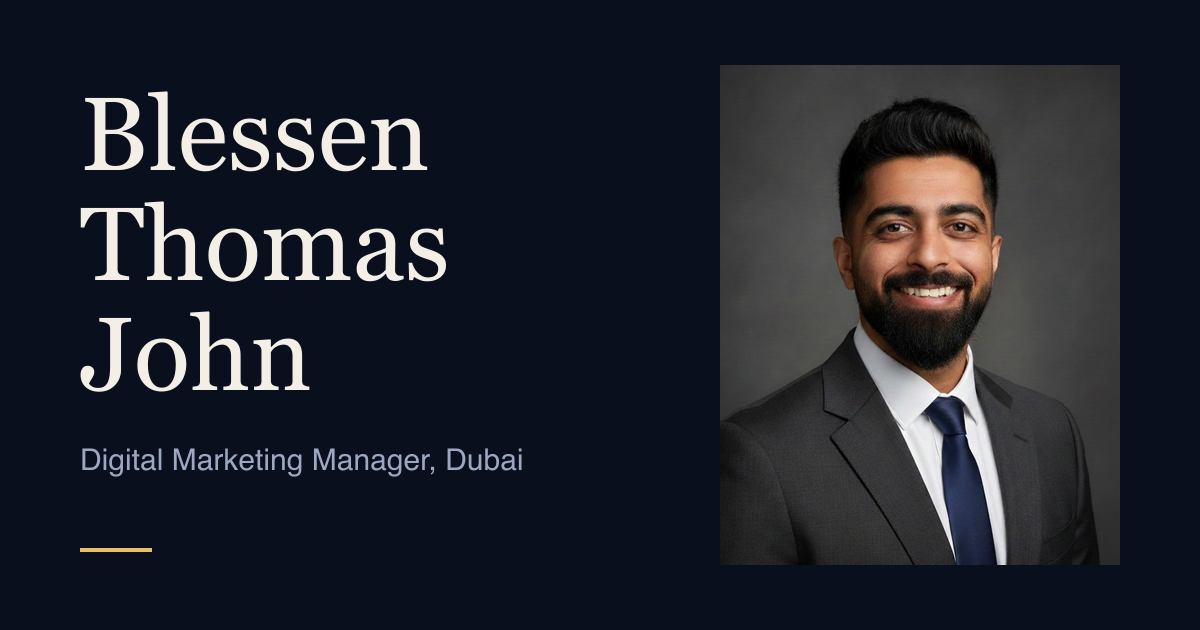
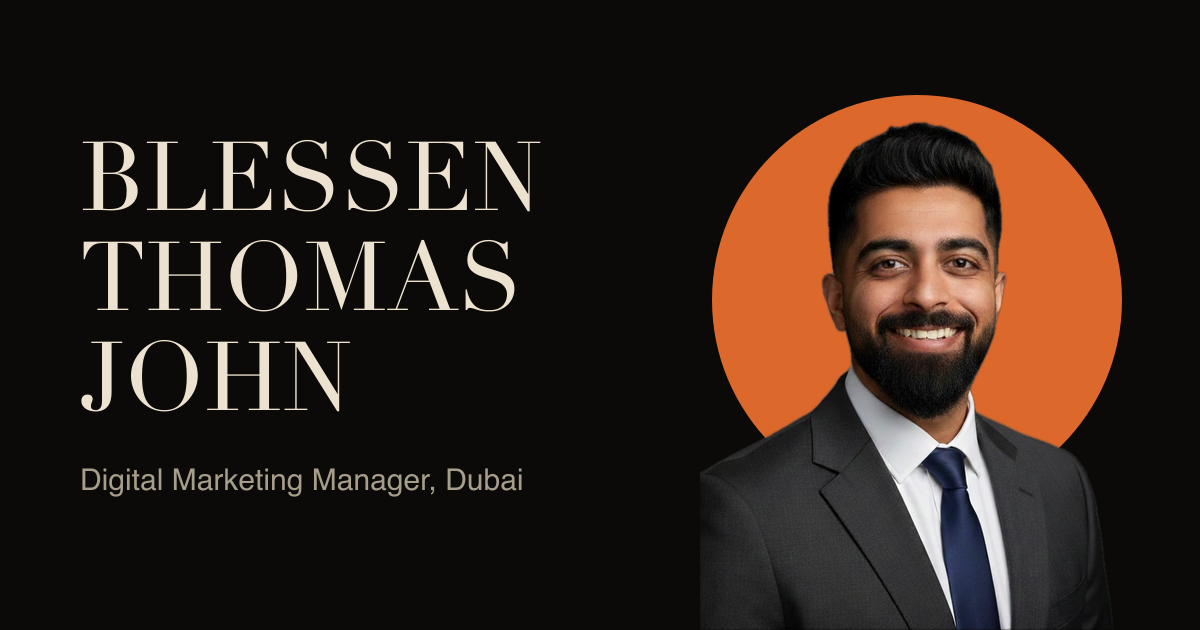
Black, beige and burnt orange palette; cut-out portrait with sun; Magento, Zapier and Claude Code tiles

diff --git a/index.html b/index.html
@@ -5,7 +5,7 @@
   <meta name="viewport" content="width=device-width, initial-scale=1">
   <title>Blessen Thomas John | Digital Marketing Manager, Dubai</title>
   <meta name="description" content="Blessen Thomas John is a Digital Marketing Manager and Adobe Experience Cloud specialist in Dubai, leading MarTech delivery across AEM, Workfront, Workfront Fusion and Marketo Engage.">
-  <meta name="theme-color" content="#0a0f1e">
+  <meta name="theme-color" content="#0b0a08">
   <link rel="canonical" href="%VITE_SITE_URL%">
   <meta property="og:type" content="website">
   <meta property="og:title" content="Blessen Thomas John | Digital Marketing Manager, Dubai">
@@ -76,10 +76,11 @@
     <div class="hero__stage">
       <div class="hero__photo">
         <div class="portrait">
+          <span class="portrait__sun" aria-hidden="true"></span>
           <img src="/portrait-840.webp"
             srcset="/portrait-420.webp 420w, /portrait-840.webp 840w"
             sizes="(min-width: 700px) 27vw, 54vw"
-            width="840" height="1050" fetchpriority="high" decoding="async"
+            width="840" height="1083" fetchpriority="high" decoding="async"
             alt="Portrait of Blessen Thomas John, smiling, in a dark suit and navy tie">
         </div>
       </div>
@@ -104,6 +105,7 @@
         <li><svg viewBox="0 0 24 24" aria-hidden="true"><path d="M13.966 22.624l-1.69-4.281H8.122l3.892-9.144 5.662 13.425zM8.884 1.376H0v21.248zm15.116 0h-8.884L24 22.624Z"/></svg><span>Workfront</span></li>
         <li><svg viewBox="0 0 24 24" aria-hidden="true"><path d="M13.966 22.624l-1.69-4.281H8.122l3.892-9.144 5.662 13.425zM8.884 1.376H0v21.248zm15.116 0h-8.884L24 22.624Z"/></svg><span>Workfront Fusion</span></li>
         <li><svg viewBox="0 0 24 24" aria-hidden="true"><path d="M16.146 0v24l6.134-4.886V3.334zM13.293 18.758l-4.939 2.157V2.086l4.939 1.462zM1.721 18.205l3.78-.999V5.188l-3.762-.606z"/></svg><span>Marketo Engage</span></li>
+        <li><svg viewBox="0 0 24 24" aria-hidden="true"><path d="M12 24l-4.455-2.572v-12l2.97-1.715v12.001l1.485.902 1.485-.902V7.713l2.971 1.715v12L12 24zM22.391 6v12l-2.969 1.714V7.713L12 3.43 4.574 7.713v12.001L1.609 18V6L12 0l10.391 6z"/></svg><span>Magento</span></li>
         <li><svg viewBox="0 0 24 24" aria-hidden="true"><path d="M22.84 2.9982v17.9987c.0086 1.6473-1.3197 2.9897-2.967 2.9984a2.9808 2.9808 0 01-.3677-.0208c-1.528-.226-2.6477-1.5558-2.6105-3.1V3.1204c-.0369-1.5458 1.0856-2.8762 2.6157-3.1 1.6361-.1915 3.1178.9796 3.3093 2.6158.014.1201.0208.241.0202.3619zM4.1326 18.0548c-1.6417 0-2.9726 1.331-2.9726 2.9726C1.16 22.6691 2.4909 24 4.1326 24s2.9726-1.3309 2.9726-2.9726-1.331-2.9726-2.9726-2.9726zm7.8728-9.0098c-.0171 0-.0342 0-.0513.0003-1.6495.0904-2.9293 1.474-2.891 3.1256v7.9846c0 2.167.9535 3.4825 2.3505 3.763 1.6118.3266 3.1832-.7152 3.5098-2.327.04-.1974.06-.3983.0593-.5998v-8.9585c.003-1.6474-1.33-2.9852-2.9773-2.9882z"/></svg><span>Google Analytics 4</span></li>
         <li><svg viewBox="0 0 24 24" aria-hidden="true"><path d="M12.003 0a3 3 0 0 0-2.121 5.121l6.865 6.865-4.446 4.541 1.745 1.836a3.432 3.432 0 0 1 .7.739l.012.011-.001.002a3.432 3.432 0 0 1 .609 1.953 3.432 3.432 0 0 1-.09.78l7.75-7.647c.031-.029.067-.05.098-.08.023-.023.038-.052.06-.076a2.994 2.994 0 0 0-.06-4.166l-9-9A2.99 2.99 0 0 0 12.003 0zM8.63 2.133L.88 9.809a2.998 2.998 0 0 0 0 4.238l7.7 7.75a3.432 3.432 0 0 1-.077-.729 3.432 3.432 0 0 1 3.431-3.431 3.432 3.432 0 0 1 .826.101l-5.523-5.81 4.371-4.373-2.08-2.08c-.903-.904-1.193-2.183-.898-3.342zm3.304 16.004a2.932 2.932 0 0 0-2.931 2.931A2.932 2.932 0 0 0 11.934 24a2.932 2.932 0 0 0 2.932-2.932 2.932 2.932 0 0 0-2.932-2.931z"/></svg><span>Google Tag Manager</span></li>
         <li><svg viewBox="0 0 24 24" aria-hidden="true"><path d="M19.197 23.002c-1.016-.613-1.697-1.728-1.697-3 0-1.273.681-2.388 1.697-3h-6.909a3.034 3.034 0 0 0-.252-.011c-1.656 0-3.022 1.355-3.036 3.011v.014c0 1.645 1.354 3 3 3 .096 0 .192-.005.288-.014h6.909Zm1.803-6c1.656 0 3 1.344 3 3s-1.344 3-3 3-3-1.344-3-3 1.344-3 3-3Zm-10.803-2.004c-1.016-.613-1.697-1.728-1.697-3 0-1.273.681-2.388 1.697-3H3.288a3.034 3.034 0 0 0-.252-.011C1.38 8.987.014 10.342 0 11.998v.014c0 1.645 1.354 3 3 3 .096 0 .192-.005.288-.014h6.909Zm1.803-6c1.656 0 3 1.344 3 3s-1.344 3-3 3-3-1.344-3-3 1.344-3 3-3Zm7.197-2.004c-1.016-.613-1.697-1.728-1.697-3 0-1.273.681-2.388 1.697-3h-6.909c-.08-.006-.16-.01-.24-.01C10.39.984 9.021 2.336 9 3.994v.014c0 1.645 1.354 3 3 3 .096 0 .192-.005.288-.014h6.909Zm1.803-6c1.656 0 3 1.344 3 3s-1.344 3-3 3-3-1.344-3-3 1.344-3 3-3Z"/></svg><span>Looker Studio</span></li>
@@ -111,8 +113,9 @@
         <li><svg viewBox="0 0 24 24" aria-hidden="true"><path d="M11.571 11.513H0a5.218 5.218 0 0 0 5.232 5.215h2.13v2.057A5.215 5.215 0 0 0 12.575 24V12.518a1.005 1.005 0 0 0-1.005-1.005zm5.723-5.756H5.736a5.215 5.215 0 0 0 5.215 5.214h2.129v2.058a5.218 5.218 0 0 0 5.215 5.214V6.758a1.001 1.001 0 0 0-1.001-1.001zM23.013 0H11.455a5.215 5.215 0 0 0 5.215 5.215h2.129v2.057A5.215 5.215 0 0 0 24 12.483V1.005A1.001 1.001 0 0 0 23.013 0Z"/></svg><span>Jira</span></li>
         <li><svg viewBox="0 0 24 24" aria-hidden="true"><path d="M18.164 7.93V5.084a2.198 2.198 0 001.267-1.978v-.067A2.2 2.2 0 0017.238.845h-.067a2.2 2.2 0 00-2.193 2.193v.067a2.196 2.196 0 001.252 1.973l.013.006v2.852a6.22 6.22 0 00-2.969 1.31l.012-.01-7.828-6.095A2.497 2.497 0 104.3 4.656l-.012.006 7.697 5.991a6.176 6.176 0 00-1.038 3.446c0 1.343.425 2.588 1.147 3.607l-.013-.02-2.342 2.343a1.968 1.968 0 00-.58-.095h-.002a2.033 2.033 0 102.033 2.033 1.978 1.978 0 00-.1-.595l.005.014 2.317-2.317a6.247 6.247 0 104.782-11.134l-.036-.005zm-.964 9.378a3.206 3.206 0 113.215-3.207v.002a3.206 3.206 0 01-3.207 3.207z"/></svg><span>HubSpot</span></li>
         <li><svg viewBox="0 0 24 24" aria-hidden="true"><path d="M13.38 3.498c-.27 0-.511.19-.566.465L9.85 18.986a.578.578 0 0 0 .453.678l4.095.826a.58.58 0 0 0 .682-.455l2.963-15.021a.578.578 0 0 0-.453-.678l-4.096-.826a.589.589 0 0 0-.113-.012zm-5.876.098a.576.576 0 0 0-.516.318L.062 17.697a.575.575 0 0 0 .256.774l3.733 1.877a.578.578 0 0 0 .775-.258l6.926-13.781a.577.577 0 0 0-.256-.776L7.762 3.658a.571.571 0 0 0-.258-.062zm11.74.115a.576.576 0 0 0-.576.576v15.426c0 .318.258.578.576.578h4.178a.58.58 0 0 0 .578-.578V4.287a.578.578 0 0 0-.578-.576Z"/></svg><span>Make</span></li>
+        <li><svg viewBox="0 0 24 24" aria-hidden="true"><path d="M4.157 0A4.151 4.151 0 0 0 0 4.161v15.678A4.151 4.151 0 0 0 4.157 24h15.682A4.152 4.152 0 0 0 24 19.839V4.161A4.152 4.152 0 0 0 19.839 0H4.157Zm10.61 8.761h.03a.577.577 0 0 1 .23.038.585.585 0 0 1 .201.124.63.63 0 0 1 .162.431.612.612 0 0 1-.162.435.58.58 0 0 1-.201.128.58.58 0 0 1-.23.042.529.529 0 0 1-.235-.042.585.585 0 0 1-.332-.328.559.559 0 0 1-.038-.235.613.613 0 0 1 .17-.431.59.59 0 0 1 .405-.162Zm2.853 1.572c.03.004.061.004.095.004.325-.011.646.064.937.219.238.144.431.355.552.609.128.279.189.582.185.888v.193a2 2 0 0 1 0 .219h-2.498c.003.227.075.45.204.642a.78.78 0 0 0 .646.265.714.714 0 0 0 .484-.136.642.642 0 0 0 .23-.318l.915.257a1.398 1.398 0 0 1-.28.537c-.14.159-.321.284-.521.355a2.234 2.234 0 0 1-.836.136 1.923 1.923 0 0 1-1.001-.245 1.618 1.618 0 0 1-.665-.703 2.221 2.221 0 0 1-.227-1.036 1.95 1.95 0 0 1 .48-1.398 1.9 1.9 0 0 1 1.3-.488Zm-9.607.023c.162.004.325.026.48.079.207.065.4.174.563.314.26.302.393.692.366 1.088v2.276H8.53l-.109-.711h-.065c-.064.163-.155.31-.272.439a1.122 1.122 0 0 1-.374.264 1.023 1.023 0 0 1-.453.083 1.334 1.334 0 0 1-.866-.264.965.965 0 0 1-.329-.801.993.993 0 0 1 .076-.431 1.02 1.02 0 0 1 .242-.363 1.478 1.478 0 0 1 1.043-.303h.952v-.181a.696.696 0 0 0-.136-.454.553.553 0 0 0-.438-.154.695.695 0 0 0-.378.086.48.48 0 0 0-.193.254l-.99-.144a1.26 1.26 0 0 1 .257-.563c.14-.174.321-.302.533-.378.261-.091.54-.136.82-.129.053-.003.106-.007.163-.007Zm4.384.007c.174 0 .347.038.506.114.182.083.34.211.458.374.257.423.377.911.351 1.406a2.53 2.53 0 0 1-.355 1.448 1.148 1.148 0 0 1-1.009.517c-.204 0-.401-.045-.582-.136a1.052 1.052 0 0 1-.48-.457 1.298 1.298 0 0 1-.114-.234h-.045l.004 1.784h-1.059v-4.713h.904l.117.805h.057c.068-.208.177-.401.328-.56a1.129 1.129 0 0 1 .843-.344h.076v-.004Zm7.559.084h.903l.113.805h.053a1.37 1.37 0 0 1 .235-.484.813.813 0 0 1 .313-.242.82.82 0 0 1 .39-.076h.234v1.051h-.401a.662.662 0 0 0-.313.008.623.623 0 0 0-.272.155.663.663 0 0 0-.174.26.683.683 0 0 0-.027.314v1.875h-1.054v-3.666Zm-17.515.003h3.262v.896L3.73 13.104l.034.113h1.973l.042.9H2.4v-.9l1.931-1.754-.045-.117H2.441v-.896Zm11.815 0h1.055v3.659h-1.055V10.45Zm3.443.684.019.016a.69.69 0 0 0-.351.045.756.756 0 0 0-.287.204c-.11.155-.174.336-.189.522h1.545c-.034-.526-.257-.787-.74-.787h.003Zm-5.718.163c-.026 0-.057 0-.083.004a.78.78 0 0 0-.31.053.746.746 0 0 0-.257.189 1.016 1.016 0 0 0-.204.695v.064c-.015.257.057.507.204.711a.634.634 0 0 0 .253.196.638.638 0 0 0 .314.061.644.644 0 0 0 .578-.265c.14-.223.204-.48.189-.74a1.216 1.216 0 0 0-.181-.711.677.677 0 0 0-.503-.257Zm-4.509 1.266a.464.464 0 0 0-.268.102.373.373 0 0 0-.114.276c0 .053.008.106.027.155a.375.375 0 0 0 .087.132.576.576 0 0 0 .397.11v.004a.863.863 0 0 0 .563-.182.573.573 0 0 0 .211-.457v-.14h-.903Z"/></svg><span>Zapier</span></li>
         <li><svg viewBox="0 0 24 24" aria-hidden="true"><path d="m0 7.354 2.113 9.292h.801a1.54 1.54 0 0 0 1.506-1.218l1.351-6.34a.171.171 0 0 1 .167-.137c.08 0 .15.058.167.137l1.352 6.34a1.54 1.54 0 0 0 1.506 1.218h.805l2.113-9.292h-.565c-.62 0-1.159.43-1.296 1.035l-1.26 5.545-1.106-5.176a1.76 1.76 0 0 0-2.19-1.324c-.639.176-1.113.716-1.251 1.365l-1.094 5.127-1.26-5.537A1.33 1.33 0 0 0 .563 7.354H0zm13.992 0a.951.951 0 0 0-.951.95v8.342h.635a.952.952 0 0 0 .951-.95V7.353h-.635zm1.778 0 3.158 4.66-3.14 4.632h1.325c.368 0 .712-.181.918-.486l1.756-2.59a.12.12 0 0 1 .197 0l1.754 2.59c.206.305.55.486.918.486h1.326l-3.14-4.632L24 7.354h-1.326c-.368 0-.712.181-.918.486l-1.772 2.617a.12.12 0 0 1-.197 0L18.014 7.84a1.108 1.108 0 0 0-.918-.486H15.77z"/></svg><span>Wix</span></li>
-        <li><svg viewBox="0 0 24 24" aria-hidden="true"><path d="m4.7144 15.9555 4.7174-2.6471.079-.2307-.079-.1275h-.2307l-.7893-.0486-2.6956-.0729-2.3375-.0971-2.2646-.1214-.5707-.1215-.5343-.7042.0546-.3522.4797-.3218.686.0608 1.5179.1032 2.2767.1578 1.6514.0972 2.4468.255h.3886l.0546-.1579-.1336-.0971-.1032-.0972L6.973 9.8356l-2.55-1.6879-1.3356-.9714-.7225-.4918-.3643-.4614-.1578-1.0078.6557-.7225.8803.0607.2246.0607.8925.686 1.9064 1.4754 2.4893 1.8336.3643.3035.1457-.1032.0182-.0728-.164-.2733-1.3539-2.4467-1.445-2.4893-.6435-1.032-.17-.6194c-.0607-.255-.1032-.4674-.1032-.7285L6.287.1335 6.6997 0l.9957.1336.419.3642.6192 1.4147 1.0018 2.2282 1.5543 3.0296.4553.8985.2429.8318.091.255h.1579v-.1457l.1275-1.706.2368-2.0947.2307-2.6957.0789-.7589.3764-.9107.7468-.4918.5828.2793.4797.686-.0668.4433-.2853 1.8517-.5586 2.9021-.3643 1.9429h.2125l.2429-.2429.9835-1.3053 1.6514-2.0643.7286-.8196.85-.9046.5464-.4311h1.0321l.759 1.1293-.34 1.1657-1.0625 1.3478-.8804 1.1414-1.2628 1.7-.7893 1.36.0729.1093.1882-.0183 2.8535-.607 1.5421-.2794 1.8396-.3157.8318.3886.091.3946-.3278.8075-1.967.4857-2.3072.4614-3.4364.8136-.0425.0304.0486.0607 1.5482.1457.6618.0364h1.621l3.0175.2247.7892.522.4736.6376-.079.4857-1.2142.6193-1.6393-.3886-3.825-.9107-1.3113-.3279h-.1822v.1093l1.0929 1.0686 2.0035 1.8092 2.5075 2.3314.1275.5768-.3218.4554-.34-.0486-2.2039-1.6575-.85-.7468-1.9246-1.621h-.1275v.17l.4432.6496 2.3436 3.5214.1214 1.0807-.17.3521-.6071.2125-.6679-.1214-1.3721-1.9246L14.38 17.959l-1.1414-1.9428-.1397.079-.674 7.2552-.3156.3703-.7286.2793-.6071-.4614-.3218-.7468.3218-1.4753.3886-1.9246.3157-1.53.2853-1.9004.17-.6314-.0121-.0425-.1397.0182-1.4328 1.9672-2.1796 2.9446-1.7243 1.8456-.4128.164-.7164-.3704.0667-.6618.4008-.5889 2.386-3.0357 1.4389-1.882.929-1.0868-.0062-.1579h-.0546l-6.3385 4.1164-1.1293.1457-.4857-.4554.0608-.7467.2307-.2429 1.9064-1.3114Z"/></svg><span>Claude</span></li>
+        <li><svg viewBox="0 0 24 24" aria-hidden="true"><path d="m4.7144 15.9555 4.7174-2.6471.079-.2307-.079-.1275h-.2307l-.7893-.0486-2.6956-.0729-2.3375-.0971-2.2646-.1214-.5707-.1215-.5343-.7042.0546-.3522.4797-.3218.686.0608 1.5179.1032 2.2767.1578 1.6514.0972 2.4468.255h.3886l.0546-.1579-.1336-.0971-.1032-.0972L6.973 9.8356l-2.55-1.6879-1.3356-.9714-.7225-.4918-.3643-.4614-.1578-1.0078.6557-.7225.8803.0607.2246.0607.8925.686 1.9064 1.4754 2.4893 1.8336.3643.3035.1457-.1032.0182-.0728-.164-.2733-1.3539-2.4467-1.445-2.4893-.6435-1.032-.17-.6194c-.0607-.255-.1032-.4674-.1032-.7285L6.287.1335 6.6997 0l.9957.1336.419.3642.6192 1.4147 1.0018 2.2282 1.5543 3.0296.4553.8985.2429.8318.091.255h.1579v-.1457l.1275-1.706.2368-2.0947.2307-2.6957.0789-.7589.3764-.9107.7468-.4918.5828.2793.4797.686-.0668.4433-.2853 1.8517-.5586 2.9021-.3643 1.9429h.2125l.2429-.2429.9835-1.3053 1.6514-2.0643.7286-.8196.85-.9046.5464-.4311h1.0321l.759 1.1293-.34 1.1657-1.0625 1.3478-.8804 1.1414-1.2628 1.7-.7893 1.36.0729.1093.1882-.0183 2.8535-.607 1.5421-.2794 1.8396-.3157.8318.3886.091.3946-.3278.8075-1.967.4857-2.3072.4614-3.4364.8136-.0425.0304.0486.0607 1.5482.1457.6618.0364h1.621l3.0175.2247.7892.522.4736.6376-.079.4857-1.2142.6193-1.6393-.3886-3.825-.9107-1.3113-.3279h-.1822v.1093l1.0929 1.0686 2.0035 1.8092 2.5075 2.3314.1275.5768-.3218.4554-.34-.0486-2.2039-1.6575-.85-.7468-1.9246-1.621h-.1275v.17l.4432.6496 2.3436 3.5214.1214 1.0807-.17.3521-.6071.2125-.6679-.1214-1.3721-1.9246L14.38 17.959l-1.1414-1.9428-.1397.079-.674 7.2552-.3156.3703-.7286.2793-.6071-.4614-.3218-.7468.3218-1.4753.3886-1.9246.3157-1.53.2853-1.9004.17-.6314-.0121-.0425-.1397.0182-1.4328 1.9672-2.1796 2.9446-1.7243 1.8456-.4128.164-.7164-.3704.0667-.6618.4008-.5889 2.386-3.0357 1.4389-1.882.929-1.0868-.0062-.1579h-.0546l-6.3385 4.1164-1.1293.1457-.4857-.4554.0608-.7467.2307-.2429 1.9064-1.3114Z"/></svg><span>Claude Code</span></li>
         <li><svg viewBox="0 0 24 24" aria-hidden="true"><path d="M20.907 4.93953 12.68543.18573a1.3577 1.3577 0 0 0-1.3709 0L3.09298 4.9565a1.3766 1.3766 0 0 0-.68639 1.18233v9.52646a1.3766 1.3766 0 0 0 .68639 1.19363l8.22157 4.75946.06223.03583 4.04856 2.3458-.01131-2.06106.0075-1.1446.0038.01885v-.38467c0-.23006.1188-.43371.29605-.56005l.264-.15086.12633-.06977h-.0075l4.80283-2.7795a1.3803 1.3803 0 0 0 .68639-1.19551V6.13505a1.3803 1.3803 0 0 0-.68642-1.19552m-9.85269 9.68863a1.4275 1.4275 0 0 1-.39976 1.3841 1.4086 1.4086 0 0 1-1.97054 0 1.4199 1.4199 0 0 1 0-2.06294 1.4086 1.4086 0 0 1 2.0422.07543l3.32822-1.91585.6864.38656zm5.77019-2.41367a1.4086 1.4086 0 0 1-1.97054 0 1.4256 1.4256 0 0 1-.3696-1.47837l-.0132.0075-3.7525-2.1723-.05657.05656a1.4086 1.4086 0 0 1-1.97053 0 1.4199 1.4199 0 0 1 0-2.06293 1.4086 1.4086 0 0 1 1.97242 0c.3941.37713.52422.91832.39033 1.40672l3.7808 2.20059.01886-.01886a1.4086 1.4086 0 0 1 1.97242 0 1.42746 1.42746 0 0 1 0 2.06105z"/></svg><span>DeepL</span></li>
       </ul>
     </section>
@@ -155,6 +158,7 @@
           <div class="proj__body">
             <p class="proj__case">Enterprise teams need to publish product content and sell online without a developer behind every change.</p>
             <p>Delivered a CMS migration and a custom-built CMS that the client’s teams manage themselves, together with a webshop for the product range.</p>
+            <p class="proj__tools">Magento</p>
           </div>
         </details>
         <details class="proj" name="work">
@@ -296,7 +300,7 @@
       <div class="skills">
         <div>
           <h3>Adobe and MarTech</h3>
-          <ul><li>AEM Sites (Cloud)</li><li>AEM Assets and DAM</li><li>Workfront</li><li>Workfront Fusion</li><li>Marketo Engage</li><li>HubSpot</li><li>Jira</li><li>Wix</li></ul>
+          <ul><li>AEM Sites (Cloud)</li><li>AEM Assets and DAM</li><li>Workfront</li><li>Workfront Fusion</li><li>Marketo Engage</li><li>Magento</li><li>HubSpot</li><li>Jira</li><li>Wix</li></ul>
         </div>
         <div>
           <h3>Project delivery</h3>
@@ -308,7 +312,7 @@
         </div>
         <div>
           <h3>Data and AI</h3>
-          <ul><li>GA4 and GTM</li><li>Looker Studio</li><li>BigQuery</li><li>Fivetran</li><li>Claude and Claude Code</li><li>GPT</li><li>Make</li><li>Prompt engineering</li></ul>
+          <ul><li>GA4 and GTM</li><li>Looker Studio</li><li>BigQuery</li><li>Fivetran</li><li>Claude and Claude Code</li><li>GPT</li><li>Make</li><li>Zapier</li><li>Prompt engineering</li></ul>
         </div>
       </div>
       <div class="creds">

diff --git a/src/style.css b/src/style.css
@@ -1,17 +1,15 @@
 @import '@fontsource-variable/bodoni-moda/opsz.css';
 @import '@fontsource-variable/hanken-grotesk/wght.css';
 
-/* Midnight and brass: the navy comes from the portrait, brass leads, three more colours answer interaction. */
+/* Black and beige. Burnt orange leads, yellow is the second voice; nothing else. */
 :root {
-  --bg: #0a0f1e;
-  --panel: #111830;
-  --rule: #26304d;
-  --ink: #f4efe6;
-  --mute: #9ca8c2;
-  --brass: #e8c06a;
-  --ice: #8fc2ff;
-  --coral: #ff9a7b;
-  --mint: #84e0c0;
+  --bg: #0b0a08;
+  --panel: #151310;
+  --rule: #2e2a23;
+  --ink: #ece2cf;
+  --mute: #a69d8b;
+  --orange: #dc682c;
+  --yellow: #f0b63a;
   --pad: clamp(1.25rem, 5vw, 4.5rem);
   --rail: 13rem;
   --display: 'Bodoni Moda Variable', 'Bodoni MT', Didot, Georgia, serif;
@@ -26,23 +24,19 @@ h1, h2, h3, p, ul, ol { margin: 0; }
 ul, ol { padding: 0; list-style: none; }
 img { display: block; max-width: 100%; }
 a { color: inherit; }
-:focus-visible { outline: 2px solid var(--brass); outline-offset: 4px; border-radius: 2px; }
-::selection { background: var(--brass); color: var(--bg); }
+:focus-visible { outline: 2px solid var(--yellow); outline-offset: 4px; border-radius: 2px; }
+::selection { background: var(--orange); color: var(--bg); }
 .visually-hidden, .defs { position: absolute; width: 1px; height: 1px; overflow: hidden; clip-path: inset(50%); white-space: nowrap; }
-.skip { position: absolute; left: 1rem; top: -4rem; z-index: 30; padding: .6rem 1rem; background: var(--brass); color: var(--bg); font-weight: 600; }
+.skip { position: absolute; left: 1rem; top: -4rem; z-index: 30; padding: .6rem 1rem; background: var(--yellow); color: var(--bg); font-weight: 600; }
 .skip:focus { top: 1rem; }
 
-/* Each section owns a colour; its nav link wears the same one. */
-#work, [href='#work'] { --sec: var(--brass); }
-#experience, [href='#experience'] { --sec: var(--ice); }
-#skills, [href='#skills'] { --sec: var(--mint); }
-#contact, [href='#contact'] { --sec: var(--coral); }
+/* Sections alternate the two accents; each nav link wears its section's one. */
+#work, [href='#work'], #skills, [href='#skills'] { --sec: var(--orange); }
+#experience, [href='#experience'], #contact, [href='#contact'] { --sec: var(--yellow); }
 [href='#intro'] { --sec: var(--ink); }
-/* Repeated blocks cycle through the four; --c is what each lights up with. */
-:is(.feat, .proj, .xp__item, .skills > div, .tools__list li) { --c: var(--brass); }
-:is(.feat, .proj, .xp__item, .skills > div, .tools__list li):nth-child(4n + 2) { --c: var(--ice); }
-:is(.feat, .proj, .xp__item, .skills > div, .tools__list li):nth-child(4n + 3) { --c: var(--coral); }
-:is(.feat, .proj, .xp__item, .skills > div, .tools__list li):nth-child(4n) { --c: var(--mint); }
+/* Repeated blocks alternate too; --c is what each lights up with. */
+:is(.feat, .proj, .xp__item, .skills > div, .tools__list li) { --c: var(--orange); }
+:is(.feat, .proj, .xp__item, .skills > div, .tools__list li):nth-child(even) { --c: var(--yellow); }
 
 /* ---------- Rail: plain top nav by default; fixed once motion is on ---------- */
 .rail { display: flex; align-items: center; justify-content: space-between; gap: 1rem; padding: 1rem var(--pad); }
@@ -57,26 +51,24 @@ a { color: inherit; }
 .hero__top { width: 100%; display: flex; align-items: center; justify-content: flex-end; gap: 1rem; color: var(--mute); font-size: .95rem; }
 .hero__nav { display: none; }
 .clock { display: inline-flex; align-items: center; gap: .5rem; font-variant-numeric: tabular-nums; }
-.clock__dot { width: .5rem; height: .5rem; border-radius: 50%; background: var(--mint); }
+.clock__dot { width: .5rem; height: .5rem; border-radius: 50%; background: var(--orange); }
 .motion .clock__dot { animation: pulse 2s ease-in-out infinite; }
 @keyframes pulse { 50% { opacity: .25; } }
 
 /* Phones stack the name in three lines; from 700px "Thomas John" shares a line. */
 .hero__stage { align-self: center; display: grid; justify-items: center; font-size: clamp(3rem, 18.5vw, 7rem); }
 .hero__photo { width: min(54vw, 30svh); }
-.portrait { position: relative; aspect-ratio: 4 / 5; overflow: hidden; -webkit-mask-image: linear-gradient(#000 52%, transparent 97%); mask-image: linear-gradient(#000 52%, transparent 97%); }
-.portrait img { width: 100%; height: 100%; object-fit: cover; filter: grayscale(1) contrast(1.08); transition: filter .6s; }
-/* Navy wash ties the photo to the palette; the pointer brings the true colours back. */
-.portrait::after { content: ''; position: absolute; inset: 0; background: #2a4390; mix-blend-mode: color; opacity: .42; transition: opacity .6s; }
-.hero__stage:hover .portrait img { filter: none; }
-.hero__stage:hover .portrait::after { opacity: 0; }
+/* Cut-out portrait in front of a low sun; both fade out where the name crosses. */
+.portrait { position: relative; aspect-ratio: 841 / 1084; -webkit-mask-image: linear-gradient(#000 55%, transparent 96%); mask-image: linear-gradient(#000 55%, transparent 96%); }
+.portrait__sun { position: absolute; top: 7%; left: 4%; width: 92%; aspect-ratio: 1; border-radius: 50%; background: radial-gradient(circle at 50% 18%, var(--yellow), var(--orange) 58%); }
+.portrait img { position: relative; width: 100%; height: 100%; object-fit: cover; }
 .hero__name { position: relative; margin-top: -.95em; font: 600 1em/.9 var(--display); letter-spacing: -.01em; text-transform: uppercase; white-space: nowrap; }
 .hero__name .line { display: block; }
 .hero__name .ch { display: inline-block; }
 .hero__line { font-size: clamp(1.05rem, 1.6vw, 1.3rem); line-height: 1.35; max-width: 32ch; margin-inline: auto; text-wrap: balance; }
 .hero__meta { margin-top: .5rem; color: var(--mute); font-size: .95rem; }
 .hero__cue { display: grid; place-items: center; width: 2.75rem; height: 2.75rem; color: var(--mute); transition: color .2s; }
-.hero__cue:hover { color: var(--brass); }
+.hero__cue:hover { color: var(--orange); }
 .motion .hero__cue svg { animation: nudge 1.8s ease-in-out infinite; }
 @keyframes nudge { 50% { transform: translateY(5px); } }
 /* Hidden until main.js takes over, so nothing flashes before the intro. */
@@ -159,7 +151,7 @@ main h2::before { content: ''; display: block; width: 3rem; height: 3px; margin-
 .contact__where { margin-top: 1.25rem; color: var(--mute); }
 .buttons { display: flex; flex-wrap: wrap; gap: 1rem; margin-top: 2rem; }
 .button { display: inline-flex; align-items: center; min-height: 3.25rem; padding: 0 1.6rem; border: 1px solid var(--ink); text-decoration: none; font-weight: 600; transition: background-color .2s, color .2s, border-color .2s; }
-.button--solid { background: var(--brass); border-color: var(--brass); color: var(--bg); }
+.button--solid { background: var(--orange); border-color: var(--orange); color: var(--bg); }
 .button--solid:hover { background: var(--ink); border-color: var(--ink); }
 
 .footer { margin-top: clamp(5rem, 12vw, 9rem); padding: 1.5rem var(--pad) 2rem; border-top: 1px solid var(--rule); color: var(--mute); font-size: .9rem; }
@@ -185,7 +177,7 @@ main h2::before { content: ''; display: block; width: 3rem; height: 3px; margin-
   .hero__top { justify-content: space-between; }
   .motion .hero__nav { display: flex; }
   .clock { margin-left: auto; }
-  .tools__list { grid-template-columns: repeat(7, 1fr); }
+  .tools__list { grid-template-columns: repeat(8, 1fr); }
   .xp__track { grid-template-columns: 1fr 1fr; column-gap: 3rem; }
   .creds { grid-template-columns: 1fr 1fr; }
   .rail__name { display: block; }

diff --git a/src/main.js b/src/main.js
@@ -33,6 +33,7 @@ if (motion) {
 
   const hero = { trigger: '.hero', start: 'top top', end: 'bottom top', scrub: true };
   const face = $('.portrait img');
+  const sun = $('.portrait__sun');
 
   // Letters for the name; the h1 keeps its aria-label so it still reads as one name.
   const lines = $$('.hero__name .line');
@@ -47,15 +48,15 @@ if (motion) {
     const state = { v: 0 };
     return { state, apply: () => { map.setAttribute('scale', state.v); el.style.filter = state.v > 0.5 ? `url(#${id})` : ''; } };
   };
-  const warpIn = warp($('.portrait'), 'warp-in');
+  const warpIn = warp(face, 'warp-in');
   const warpOut = warp($('.hero__photo'), 'warp-out');
 
   // Intro: about 2.6s, and any scroll input jumps it to the end.
   root.classList.add('ready');
   const intro = gsap.timeline({ defaults: { ease: 'power3.out' } })
-    .fromTo(warpIn.state, { v: 280 }, { v: 0, duration: 1.5, ease: 'power2.out', onUpdate: warpIn.apply }, 0)
-    .from('.portrait', { autoAlpha: 0, duration: 0.9, ease: 'power1.out' }, 0)
-    .fromTo(face, { scale: 1.3 }, { scale: 1.05, duration: 1.8 }, 0)
+    .fromTo(warpIn.state, { v: 260 }, { v: 0, duration: 1.4, ease: 'power2.out', onUpdate: warpIn.apply }, 0.2)
+    .from(sun, { scale: 0.2, autoAlpha: 0, duration: 1.1, ease: 'back.out(1.4)' }, 0)
+    .from(face, { autoAlpha: 0, yPercent: 6, duration: 1, ease: 'power2.out' }, 0.2)
     .from('.hero__name .ch', { filter: 'blur(12px)', autoAlpha: 0, y: 28, duration: 0.6, stagger: 0.04, clearProps: 'filter' }, 0.45)
     .from('.hero__top, .hero__foot > *, .hero__cue', { autoAlpha: 0, y: 14, duration: 0.6, stagger: 0.07 }, 1.7);
   const skip = () => intro.progress(1);
@@ -64,16 +65,20 @@ if (motion) {
   // Leaving the hero, the photo liquefies and fades; scrolling back re-forms it.
   gsap.to(warpOut.state, { v: 340, ease: 'power1.in', onUpdate: warpOut.apply, scrollTrigger: { ...hero, end: '75% top' } });
   gsap.to('.hero__photo', { autoAlpha: 0, yPercent: -10, ease: 'power1.in', scrollTrigger: { ...hero, end: '75% top' } });
+  gsap.to(sun, { yPercent: 18, ease: 'none', scrollTrigger: hero }); // the sun sinks behind the shoulders
   // The name lines slide apart. From 700px "Thomas John" is one line and moves as one.
   const wide = matchMedia('(min-width: 700px)');
   lines.forEach((line, i) => gsap.to(line, { x: () => innerWidth * (wide.matches ? [-0.1, 0.1, 0.1] : [-0.14, 0.14, -0.14])[i], ease: 'none', scrollTrigger: { ...hero, invalidateOnRefresh: true } }));
   gsap.fromTo('.rail', { autoAlpha: 0 }, { autoAlpha: 1, ease: 'none', scrollTrigger: { ...hero, start: '88% top' } });
 
-  // The portrait leans a little towards the pointer.
+  // Depth: the figure leans towards the pointer, the sun drifts the other way.
   if (matchMedia('(pointer: fine)').matches) {
-    const mx = gsap.quickTo(face, 'x', { duration: 0.8, ease: 'power3.out' });
-    const my = gsap.quickTo(face, 'y', { duration: 0.8, ease: 'power3.out' });
-    window.addEventListener('pointermove', (e) => { mx((e.clientX / innerWidth - 0.5) * 14); my((e.clientY / innerHeight - 0.5) * 14); }, { passive: true });
+    const to = (el, prop) => gsap.quickTo(el, prop, { duration: 0.9, ease: 'power3.out' });
+    const fx = to(face, 'x'), fy = to(face, 'y'), sx = to(sun, 'x'), sy = to(sun, 'y');
+    window.addEventListener('pointermove', (e) => {
+      const dx = e.clientX / innerWidth - 0.5, dy = e.clientY / innerHeight - 0.5;
+      fx(dx * 16); fy(dy * 10); sx(dx * -22); sy(dy * -14);
+    }, { passive: true });
   }
 
   // Tool logos drop onto the banner once, then stay.

diff --git a/scripts/cutout.swift b/scripts/cutout.swift
@@ -1,0 +1,17 @@
+// Subject cut-out with Apple's Vision framework: keeps the person, makes the backdrop transparent.
+import Foundation
+import Vision
+import CoreImage
+
+let args = CommandLine.arguments
+let input = URL(fileURLWithPath: args[1]), output = URL(fileURLWithPath: args[2])
+guard let image = CIImage(contentsOf: input) else { fatalError("cannot read input") }
+let handler = VNImageRequestHandler(ciImage: image)
+let request = VNGenerateForegroundInstanceMaskRequest()
+try handler.perform([request])
+guard let result = request.results?.first else { fatalError("no subject found") }
+let buffer = try result.generateMaskedImage(ofInstances: result.allInstances, from: handler, croppedToInstancesExtent: false)
+let cut = CIImage(cvPixelBuffer: buffer)
+let ctx = CIContext()
+try ctx.writePNGRepresentation(of: cut, to: output, format: .RGBA8, colorSpace: CGColorSpace(name: CGColorSpace.sRGB)!)
+print("written", output.path)
